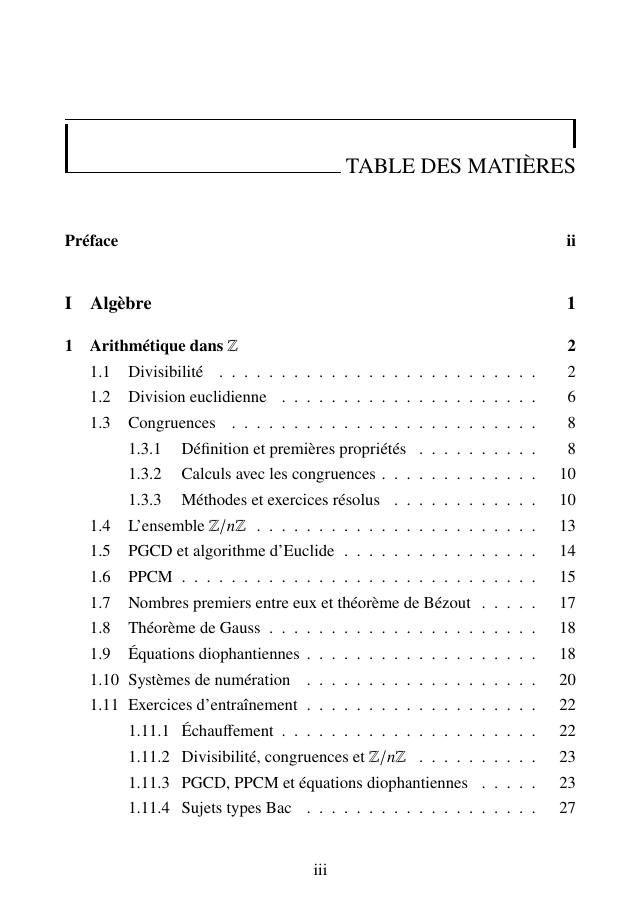
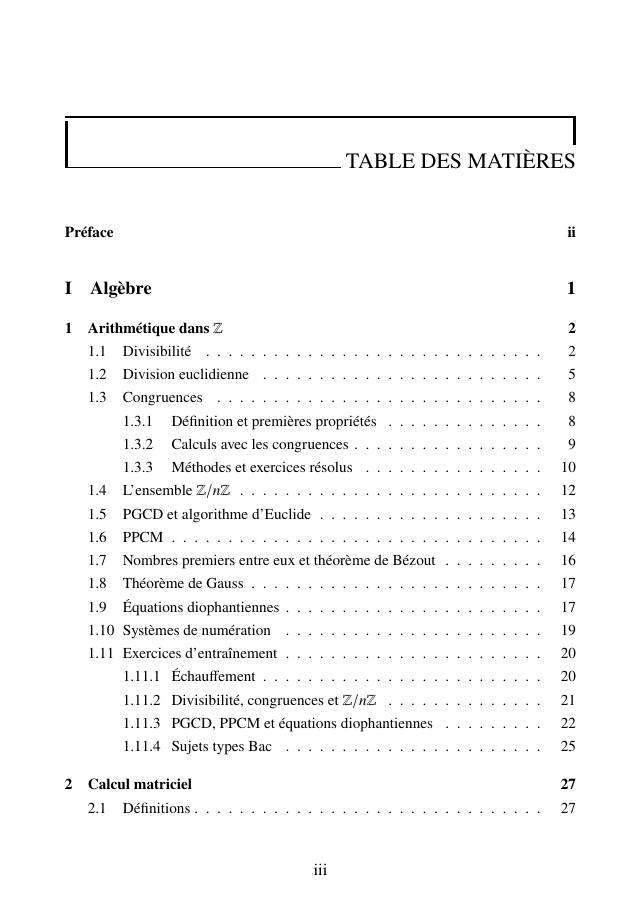
Suivre le passage du livre en 10 pt (380 pages)
Le livre est compose en 10 pt partout depuis la PR #43 de Livre_bac_S :
380 pages au lieu de 383, folios recules de 2 a partir du ch. 2.

- index.html : 380 pages (2 endroits) et numeros du sommaire repris de main.toc.
- Feuilleter : les 13 pages 101 a 341 deviennent 99 a 339 (contenu
  identique au pixel pres, seul le folio change) ; la p. 52 des
  complexes est remplacee par la p. 50 (meme contenu : figure, Euler,
  resume Linearisation) ; table des matieres (p. iii) refaite.
- Rendu pdftoppm 110 dpi, JPEG qualite 72 optimise, comme avant.

diff --git a/index.html b/index.html
@@ -341,7 +341,7 @@ footer.foot .wrap { display: flex; flex-wrap: wrap; justify-content: space-betwe
 <div class="ledger">
   <div class="wrap">
     <dl>
-      <div><dt>pages au format A5</dt><dd>383</dd></div>
+      <div><dt>pages au format A5</dt><dd>380</dd></div>
       <div><dt>chapitres en 4 parties de cours</dt><dd>19</dd></div>
       <div><dt>exercices, dont 87 résolus</dt><dd>300+</dd></div>
       <div><dt>encadrés Méthode</dt><dd>68</dd></div>
@@ -425,7 +425,7 @@ footer.foot .wrap { display: flex; flex-wrap: wrap; justify-content: space-betwe
         <summary>
           <span class="chap-n">2</span>
           <span class="chap-t">Calcul matriciel</span>
-          <span class="chap-p">p.&nbsp;29</span>
+          <span class="chap-p">p.&nbsp;27</span>
           <span class="chap-s">14 exercices · 3 résolus · 7 méthodes · 3 figures</span>
         </summary>
         <div class="chap-body">
@@ -437,7 +437,7 @@ footer.foot .wrap { display: flex; flex-wrap: wrap; justify-content: space-betwe
         <summary>
           <span class="chap-n">3</span>
           <span class="chap-t">L'ensemble des nombres complexes</span>
-          <span class="chap-p">p.&nbsp;45</span>
+          <span class="chap-p">p.&nbsp;43</span>
           <span class="chap-s">39 exercices · 16 résolus · 7 méthodes · 10 figures</span>
         </summary>
         <div class="chap-body">
@@ -447,13 +447,13 @@ footer.foot .wrap { display: flex; flex-wrap: wrap; justify-content: space-betwe
       </details>
     </section>
     <section class="partie">
-      <header class="partie-h"><span class="partie-num">Partie II</span><h3>Analyse</h3><span class="partie-p">p.&nbsp;86</span></header>
+      <header class="partie-h"><span class="partie-num">Partie II</span><h3>Analyse</h3><span class="partie-p">p.&nbsp;84</span></header>
       
       <details class="chap" id="ch4">
         <summary>
           <span class="chap-n">4</span>
           <span class="chap-t">Limites et continuité</span>
-          <span class="chap-p">p.&nbsp;87</span>
+          <span class="chap-p">p.&nbsp;85</span>
           <span class="chap-s">18 exercices · 4 résolus · 6 méthodes · 3 figures</span>
         </summary>
         <div class="chap-body">
@@ -465,7 +465,7 @@ footer.foot .wrap { display: flex; flex-wrap: wrap; justify-content: space-betwe
         <summary>
           <span class="chap-n">5</span>
           <span class="chap-t">Dérivabilité</span>
-          <span class="chap-p">p.&nbsp;109</span>
+          <span class="chap-p">p.&nbsp;107</span>
           <span class="chap-s">18 exercices · 5 résolus · 4 méthodes · 3 figures</span>
         </summary>
         <div class="chap-body">
@@ -477,7 +477,7 @@ footer.foot .wrap { display: flex; flex-wrap: wrap; justify-content: space-betwe
         <summary>
           <span class="chap-n">6</span>
           <span class="chap-t">Étude d'une fonction</span>
-          <span class="chap-p">p.&nbsp;127</span>
+          <span class="chap-p">p.&nbsp;125</span>
           <span class="chap-s">14 exercices · 6 résolus · 6 méthodes · 9 figures</span>
         </summary>
         <div class="chap-body">
@@ -489,7 +489,7 @@ footer.foot .wrap { display: flex; flex-wrap: wrap; justify-content: space-betwe
         <summary>
           <span class="chap-n">7</span>
           <span class="chap-t">Primitives et intégrale</span>
-          <span class="chap-p">p.&nbsp;144</span>
+          <span class="chap-p">p.&nbsp;142</span>
           <span class="chap-s">15 exercices · 3 résolus · 3 méthodes · 1 figure</span>
         </summary>
         <div class="chap-body">
@@ -501,7 +501,7 @@ footer.foot .wrap { display: flex; flex-wrap: wrap; justify-content: space-betwe
         <summary>
           <span class="chap-n">8</span>
           <span class="chap-t">Fonction logarithme népérien</span>
-          <span class="chap-p">p.&nbsp;159</span>
+          <span class="chap-p">p.&nbsp;157</span>
           <span class="chap-s">9 exercices · 2 méthodes · 1 figure</span>
         </summary>
         <div class="chap-body">
@@ -513,7 +513,7 @@ footer.foot .wrap { display: flex; flex-wrap: wrap; justify-content: space-betwe
         <summary>
           <span class="chap-n">9</span>
           <span class="chap-t">Fonction exponentielle</span>
-          <span class="chap-p">p.&nbsp;166</span>
+          <span class="chap-p">p.&nbsp;164</span>
           <span class="chap-s">9 exercices · 2 méthodes · 1 figure</span>
         </summary>
         <div class="chap-body">
@@ -525,7 +525,7 @@ footer.foot .wrap { display: flex; flex-wrap: wrap; justify-content: space-betwe
         <summary>
           <span class="chap-n">10</span>
           <span class="chap-t">Suites numériques</span>
-          <span class="chap-p">p.&nbsp;173</span>
+          <span class="chap-p">p.&nbsp;171</span>
           <span class="chap-s">16 exercices · 5 résolus · 6 méthodes</span>
         </summary>
         <div class="chap-body">
@@ -537,7 +537,7 @@ footer.foot .wrap { display: flex; flex-wrap: wrap; justify-content: space-betwe
         <summary>
           <span class="chap-n">11</span>
           <span class="chap-t">Équations différentielles</span>
-          <span class="chap-p">p.&nbsp;188</span>
+          <span class="chap-p">p.&nbsp;186</span>
           <span class="chap-s">15 exercices · 3 résolus · 3 méthodes · 3 figures</span>
         </summary>
         <div class="chap-body">
@@ -547,13 +547,13 @@ footer.foot .wrap { display: flex; flex-wrap: wrap; justify-content: space-betwe
       </details>
     </section>
     <section class="partie">
-      <header class="partie-h"><span class="partie-num">Partie III</span><h3>Géométrie</h3><span class="partie-p">p.&nbsp;199</span></header>
+      <header class="partie-h"><span class="partie-num">Partie III</span><h3>Géométrie</h3><span class="partie-p">p.&nbsp;197</span></header>
       
       <details class="chap" id="ch12">
         <summary>
           <span class="chap-n">12</span>
           <span class="chap-t">Barycentre</span>
-          <span class="chap-p">p.&nbsp;200</span>
+          <span class="chap-p">p.&nbsp;198</span>
           <span class="chap-s">16 exercices · 4 résolus · 1 méthode · 8 figures</span>
         </summary>
         <div class="chap-body">
@@ -565,7 +565,7 @@ footer.foot .wrap { display: flex; flex-wrap: wrap; justify-content: space-betwe
         <summary>
           <span class="chap-n">13</span>
           <span class="chap-t">Les isométries du plan</span>
-          <span class="chap-p">p.&nbsp;215</span>
+          <span class="chap-p">p.&nbsp;213</span>
           <span class="chap-s">35 exercices · 6 résolus · 3 méthodes · 20 figures</span>
         </summary>
         <div class="chap-body">
@@ -577,7 +577,7 @@ footer.foot .wrap { display: flex; flex-wrap: wrap; justify-content: space-betwe
         <summary>
           <span class="chap-n">14</span>
           <span class="chap-t">Géométrie dans l'espace</span>
-          <span class="chap-p">p.&nbsp;246</span>
+          <span class="chap-p">p.&nbsp;244</span>
           <span class="chap-s">14 exercices · 4 résolus · 2 méthodes · 3 figures</span>
         </summary>
         <div class="chap-body">
@@ -587,13 +587,13 @@ footer.foot .wrap { display: flex; flex-wrap: wrap; justify-content: space-betwe
       </details>
     </section>
     <section class="partie">
-      <header class="partie-h"><span class="partie-num">Partie IV</span><h3>Probabilités</h3><span class="partie-p">p.&nbsp;260</span></header>
+      <header class="partie-h"><span class="partie-num">Partie IV</span><h3>Probabilités</h3><span class="partie-p">p.&nbsp;258</span></header>
       
       <details class="chap" id="ch15">
         <summary>
           <span class="chap-n">15</span>
           <span class="chap-t">Probabilités</span>
-          <span class="chap-p">p.&nbsp;261</span>
+          <span class="chap-p">p.&nbsp;259</span>
           <span class="chap-s">13 exercices · 3 résolus · 2 méthodes · 2 figures</span>
         </summary>
         <div class="chap-body">
@@ -605,7 +605,7 @@ footer.foot .wrap { display: flex; flex-wrap: wrap; justify-content: space-betwe
         <summary>
           <span class="chap-n">16</span>
           <span class="chap-t">Probabilités conditionnelles</span>
-          <span class="chap-p">p.&nbsp;272</span>
+          <span class="chap-p">p.&nbsp;270</span>
           <span class="chap-s">11 exercices · 3 résolus · 3 méthodes · 8 figures</span>
         </summary>
         <div class="chap-body">
@@ -617,7 +617,7 @@ footer.foot .wrap { display: flex; flex-wrap: wrap; justify-content: space-betwe
         <summary>
           <span class="chap-n">17</span>
           <span class="chap-t">Variables aléatoires</span>
-          <span class="chap-p">p.&nbsp;284</span>
+          <span class="chap-p">p.&nbsp;282</span>
           <span class="chap-s">11 exercices · 3 résolus · 2 méthodes · 5 figures</span>
         </summary>
         <div class="chap-body">
@@ -629,7 +629,7 @@ footer.foot .wrap { display: flex; flex-wrap: wrap; justify-content: space-betwe
         <summary>
           <span class="chap-n">18</span>
           <span class="chap-t">Loi binomiale</span>
-          <span class="chap-p">p.&nbsp;294</span>
+          <span class="chap-p">p.&nbsp;292</span>
           <span class="chap-s">12 exercices · 3 résolus · 3 méthodes · 3 figures</span>
         </summary>
         <div class="chap-body">
@@ -641,7 +641,7 @@ footer.foot .wrap { display: flex; flex-wrap: wrap; justify-content: space-betwe
         <summary>
           <span class="chap-n">19</span>
           <span class="chap-t">Lois continues et loi normale</span>
-          <span class="chap-p">p.&nbsp;304</span>
+          <span class="chap-p">p.&nbsp;302</span>
           <span class="chap-s">11 exercices · 3 résolus · 3 méthodes · 5 figures</span>
         </summary>
         <div class="chap-body">
@@ -651,9 +651,9 @@ footer.foot .wrap { display: flex; flex-wrap: wrap; justify-content: space-betwe
       </details>
     </section>
     <section class="partie">
-      <header class="partie-h"><span class="partie-num">Partie V</span><h3>Sujets et entraînement</h3><span class="partie-p">p.&nbsp;315</span></header>
-      <a class="chap chap-link" href="#bac"><span class="chap-n">◆</span><span class="chap-t">Baccalauréat Série S, sessions 2021 à 2026</span><span class="chap-p">p.&nbsp;316</span><span class="chap-s">6 sujets officiels transcrits avec leur barème</span></a>
-      <a class="chap chap-link" href="#bac"><span class="chap-n">20</span><span class="chap-t">Entraînement</span><span class="chap-p">p.&nbsp;341</span><span class="chap-s">19 sujets types et des sujets du bac étranger</span></a>
+      <header class="partie-h"><span class="partie-num">Partie V</span><h3>Sujets et entraînement</h3><span class="partie-p">p.&nbsp;313</span></header>
+      <a class="chap chap-link" href="#bac"><span class="chap-n">◆</span><span class="chap-t">Baccalauréat Série S, sessions 2021 à 2026</span><span class="chap-p">p.&nbsp;314</span><span class="chap-s">6 sujets officiels transcrits avec leur barème</span></a>
+      <a class="chap chap-link" href="#bac"><span class="chap-n">20</span><span class="chap-t">Entraînement</span><span class="chap-p">p.&nbsp;339</span><span class="chap-s">19 sujets types et des sujets du bac étranger</span></a>
     </section>
     </div>
   </div>
@@ -708,87 +708,87 @@ footer.foot .wrap { display: flex; flex-wrap: wrap; justify-content: space-betwe
         </figure>
         <figure class="spec">
           <button class="spec-btn" type="button" data-src="2" aria-label="Agrandir : Nombres complexes">
-            <img src="assets/pages/page-52.jpg" alt="Nombres complexes, p. 52" loading="lazy" width="641" height="910">
+            <img src="assets/pages/page-50.jpg" alt="Nombres complexes, p. 50" loading="lazy" width="641" height="910">
           </button>
-          <figcaption><span class="spec-p">p.&nbsp;52</span> <strong>Nombres complexes</strong><br>Cercle trigonométrique, formules d'Euler et résumé de la linéarisation.</figcaption>
+          <figcaption><span class="spec-p">p.&nbsp;50</span> <strong>Nombres complexes</strong><br>Cercle trigonométrique, formules d'Euler et résumé de la linéarisation.</figcaption>
         </figure>
         <figure class="spec">
           <button class="spec-btn" type="button" data-src="3" aria-label="Agrandir : Limites et continuité">
-            <img src="assets/pages/page-101.jpg" alt="Limites et continuité, p. 101" loading="lazy" width="641" height="910">
+            <img src="assets/pages/page-99.jpg" alt="Limites et continuité, p. 99" loading="lazy" width="641" height="910">
           </button>
-          <figcaption><span class="spec-p">p.&nbsp;101</span> <strong>Limites et continuité</strong><br>Échauffement : lire un graphique, avant les exercices d'entraînement.</figcaption>
+          <figcaption><span class="spec-p">p.&nbsp;99</span> <strong>Limites et continuité</strong><br>Échauffement : lire un graphique, avant les exercices d'entraînement.</figcaption>
         </figure>
         <figure class="spec">
           <button class="spec-btn" type="button" data-src="4" aria-label="Agrandir : Dérivabilité">
-            <img src="assets/pages/page-124.jpg" alt="Dérivabilité, p. 124" loading="lazy" width="641" height="910">
+            <img src="assets/pages/page-122.jpg" alt="Dérivabilité, p. 122" loading="lazy" width="641" height="910">
           </button>
-          <figcaption><span class="spec-p">p.&nbsp;124</span> <strong>Dérivabilité</strong><br>Sujets types Bac ★★★, découpés en parties comme à l'examen.</figcaption>
+          <figcaption><span class="spec-p">p.&nbsp;122</span> <strong>Dérivabilité</strong><br>Sujets types Bac ★★★, découpés en parties comme à l'examen.</figcaption>
         </figure>
         <figure class="spec">
           <button class="spec-btn" type="button" data-src="5" aria-label="Agrandir : Étude d&#x27;une fonction">
-            <img src="assets/pages/page-133.jpg" alt="Étude d&#x27;une fonction, p. 133" loading="lazy" width="641" height="910">
+            <img src="assets/pages/page-131.jpg" alt="Étude d&#x27;une fonction, p. 131" loading="lazy" width="641" height="910">
           </button>
-          <figcaption><span class="spec-p">p.&nbsp;133</span> <strong>Étude d'une fonction</strong><br>Une propriété, l'encadré Méthode qui la met en œuvre, puis un exercice résolu.</figcaption>
+          <figcaption><span class="spec-p">p.&nbsp;131</span> <strong>Étude d'une fonction</strong><br>Une propriété, l'encadré Méthode qui la met en œuvre, puis un exercice résolu.</figcaption>
         </figure>
         <figure class="spec">
           <button class="spec-btn" type="button" data-src="6" aria-label="Agrandir : Suites numériques">
-            <img src="assets/pages/page-183.jpg" alt="Suites numériques, p. 183" loading="lazy" width="641" height="910">
+            <img src="assets/pages/page-181.jpg" alt="Suites numériques, p. 181" loading="lazy" width="641" height="910">
           </button>
-          <figcaption><span class="spec-p">p.&nbsp;183</span> <strong>Suites numériques</strong><br>Échauffement en Vrai ou faux, puis exercices sur la récurrence.</figcaption>
+          <figcaption><span class="spec-p">p.&nbsp;181</span> <strong>Suites numériques</strong><br>Échauffement en Vrai ou faux, puis exercices sur la récurrence.</figcaption>
         </figure>
         <figure class="spec">
           <button class="spec-btn" type="button" data-src="7" aria-label="Agrandir : Barycentre">
-            <img src="assets/pages/page-205.jpg" alt="Barycentre, p. 205" loading="lazy" width="641" height="910">
+            <img src="assets/pages/page-203.jpg" alt="Barycentre, p. 203" loading="lazy" width="641" height="910">
           </button>
-          <figcaption><span class="spec-p">p.&nbsp;205</span> <strong>Barycentre</strong><br>Lignes de niveau illustrées et encadré Astuce Bac.</figcaption>
+          <figcaption><span class="spec-p">p.&nbsp;203</span> <strong>Barycentre</strong><br>Lignes de niveau illustrées et encadré Astuce Bac.</figcaption>
         </figure>
         <figure class="spec">
           <button class="spec-btn" type="button" data-src="8" aria-label="Agrandir : Ouverture du chapitre 13">
-            <img src="assets/pages/page-215.jpg" alt="Ouverture du chapitre 13, p. 215" loading="lazy" width="641" height="910">
+            <img src="assets/pages/page-213.jpg" alt="Ouverture du chapitre 13, p. 213" loading="lazy" width="641" height="910">
           </button>
-          <figcaption><span class="spec-p">p.&nbsp;215</span> <strong>Ouverture du chapitre 13</strong><br>Citation, objectifs du chapitre, puis rappels et vocabulaire.</figcaption>
+          <figcaption><span class="spec-p">p.&nbsp;213</span> <strong>Ouverture du chapitre 13</strong><br>Citation, objectifs du chapitre, puis rappels et vocabulaire.</figcaption>
         </figure>
         <figure class="spec">
           <button class="spec-btn" type="button" data-src="9" aria-label="Agrandir : Isométries du plan">
-            <img src="assets/pages/page-224.jpg" alt="Isométries du plan, p. 224" loading="lazy" width="641" height="910">
+            <img src="assets/pages/page-222.jpg" alt="Isométries du plan, p. 222" loading="lazy" width="641" height="910">
           </button>
-          <figcaption><span class="spec-p">p.&nbsp;224</span> <strong>Isométries du plan</strong><br>Un arbre de décision pour reconnaître une isométrie à coup sûr.</figcaption>
+          <figcaption><span class="spec-p">p.&nbsp;222</span> <strong>Isométries du plan</strong><br>Un arbre de décision pour reconnaître une isométrie à coup sûr.</figcaption>
         </figure>
         <figure class="spec">
           <button class="spec-btn" type="button" data-src="10" aria-label="Agrandir : Isométries : échauffement">
-            <img src="assets/pages/page-230.jpg" alt="Isométries : échauffement, p. 230" loading="lazy" width="641" height="910">
+            <img src="assets/pages/page-228.jpg" alt="Isométries : échauffement, p. 228" loading="lazy" width="641" height="910">
           </button>
-          <figcaption><span class="spec-p">p.&nbsp;230</span> <strong>Isométries : échauffement</strong><br>Lire une figure : composer des réflexions sur un carré.</figcaption>
+          <figcaption><span class="spec-p">p.&nbsp;228</span> <strong>Isométries : échauffement</strong><br>Lire une figure : composer des réflexions sur un carré.</figcaption>
         </figure>
         <figure class="spec">
           <button class="spec-btn" type="button" data-src="11" aria-label="Agrandir : Probabilités conditionnelles">
-            <img src="assets/pages/page-274.jpg" alt="Probabilités conditionnelles, p. 274" loading="lazy" width="641" height="910">
+            <img src="assets/pages/page-272.jpg" alt="Probabilités conditionnelles, p. 272" loading="lazy" width="641" height="910">
           </button>
-          <figcaption><span class="spec-p">p.&nbsp;274</span> <strong>Probabilités conditionnelles</strong><br>Arbre pondéré et Méthode pour lire un arbre.</figcaption>
+          <figcaption><span class="spec-p">p.&nbsp;272</span> <strong>Probabilités conditionnelles</strong><br>Arbre pondéré et Méthode pour lire un arbre.</figcaption>
         </figure>
         <figure class="spec">
           <button class="spec-btn" type="button" data-src="12" aria-label="Agrandir : Dans la vraie vie">
-            <img src="assets/pages/page-276.jpg" alt="Dans la vraie vie, p. 276" loading="lazy" width="641" height="910">
+            <img src="assets/pages/page-274.jpg" alt="Dans la vraie vie, p. 274" loading="lazy" width="641" height="910">
           </button>
-          <figcaption><span class="spec-p">p.&nbsp;276</span> <strong>Dans la vraie vie</strong><br>Un test positif, est-on vraiment malade ? La formule de Bayes sur un TDR.</figcaption>
+          <figcaption><span class="spec-p">p.&nbsp;274</span> <strong>Dans la vraie vie</strong><br>Un test positif, est-on vraiment malade ? La formule de Bayes sur un TDR.</figcaption>
         </figure>
         <figure class="spec">
           <button class="spec-btn" type="button" data-src="13" aria-label="Agrandir : Loi exponentielle">
-            <img src="assets/pages/page-306.jpg" alt="Loi exponentielle, p. 306" loading="lazy" width="641" height="910">
+            <img src="assets/pages/page-304.jpg" alt="Loi exponentielle, p. 304" loading="lazy" width="641" height="910">
           </button>
-          <figcaption><span class="spec-p">p.&nbsp;306</span> <strong>Loi exponentielle</strong><br>Densité, absence de mémoire et Astuce Bac.</figcaption>
+          <figcaption><span class="spec-p">p.&nbsp;304</span> <strong>Loi exponentielle</strong><br>Densité, absence de mémoire et Astuce Bac.</figcaption>
         </figure>
         <figure class="spec">
           <button class="spec-btn" type="button" data-src="14" aria-label="Agrandir : Bacc Série S, session 2021">
-            <img src="assets/pages/page-316.jpg" alt="Bacc Série S, session 2021, p. 316" loading="lazy" width="641" height="910">
+            <img src="assets/pages/page-314.jpg" alt="Bacc Série S, session 2021, p. 314" loading="lazy" width="641" height="910">
           </button>
-          <figcaption><span class="spec-p">p.&nbsp;316</span> <strong>Bacc Série S, session 2021</strong><br>Le sujet officiel transcrit intégralement, barème compris.</figcaption>
+          <figcaption><span class="spec-p">p.&nbsp;314</span> <strong>Bacc Série S, session 2021</strong><br>Le sujet officiel transcrit intégralement, barème compris.</figcaption>
         </figure>
         <figure class="spec">
           <button class="spec-btn" type="button" data-src="15" aria-label="Agrandir : Entraînement">
-            <img src="assets/pages/page-341.jpg" alt="Entraînement, p. 341" loading="lazy" width="641" height="910">
+            <img src="assets/pages/page-339.jpg" alt="Entraînement, p. 339" loading="lazy" width="641" height="910">
           </button>
-          <figcaption><span class="spec-p">p.&nbsp;341</span> <strong>Entraînement</strong><br>Le premier des 19 sujets types, au format de l'épreuve.</figcaption>
+          <figcaption><span class="spec-p">p.&nbsp;339</span> <strong>Entraînement</strong><br>Le premier des 19 sujets types, au format de l'épreuve.</figcaption>
         </figure>
     </div>
   </div>
@@ -849,7 +849,7 @@ footer.foot .wrap { display: flex; flex-wrap: wrap; justify-content: space-betwe
       <div class="ticket">
         <p class="label">Le Repère · Mathématiques Terminale S</p>
         <p class="price">105&#8239;000<small>Ar</small></p>
-        <p class="ticket-sub">383 pages : cours, exercices corrigés et sujets de BAC.</p>
+        <p class="ticket-sub">380 pages : cours, exercices corrigés et sujets de BAC.</p>
         <ul>
           <li><span><b>Livraison gratuite</b> dans Tana ville</span></li>
           <li><span>Sujets officiels du Bacc 2021 à 2026 inclus</span></li>
